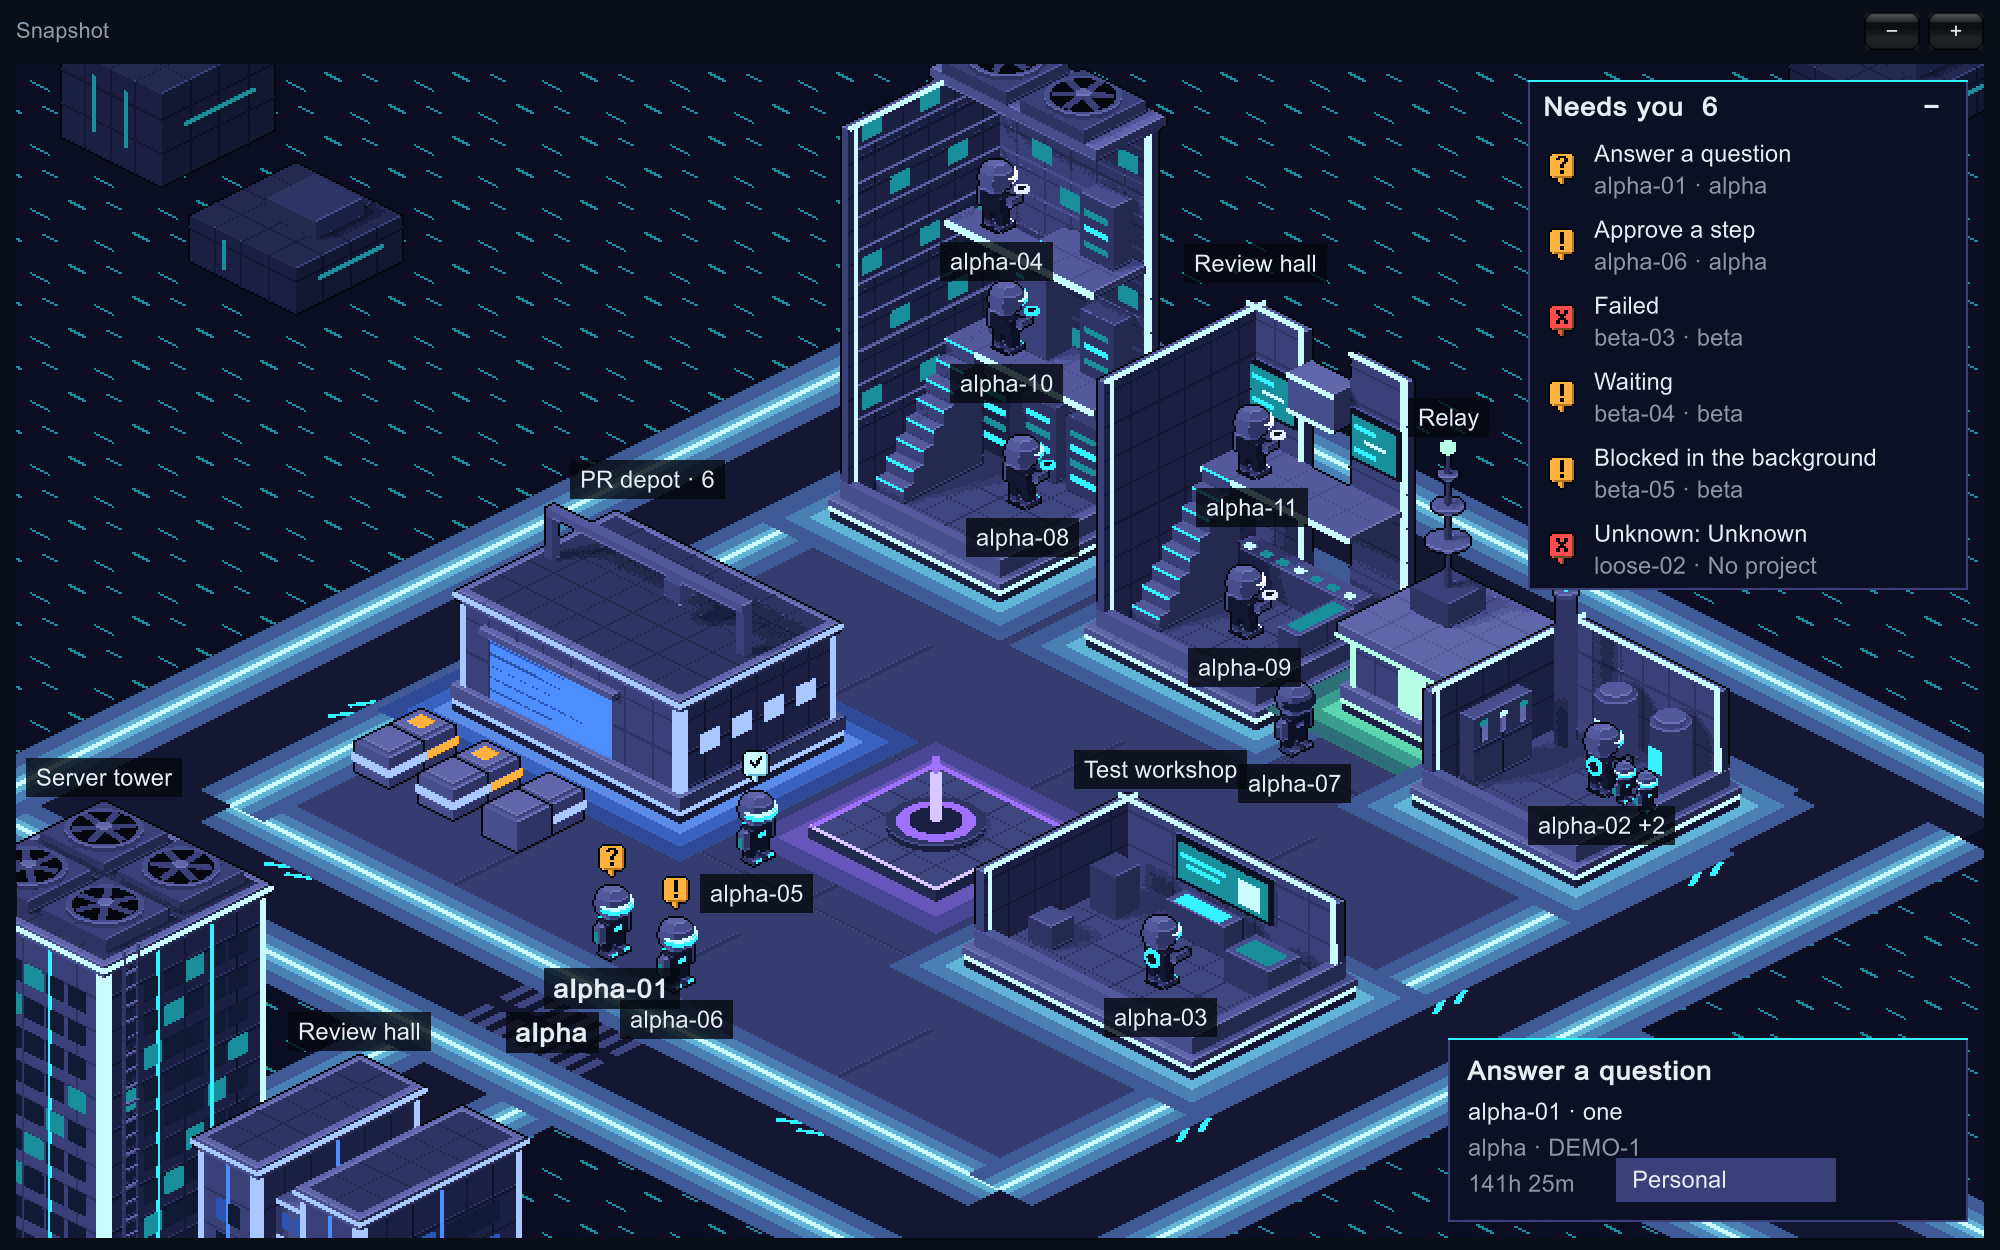
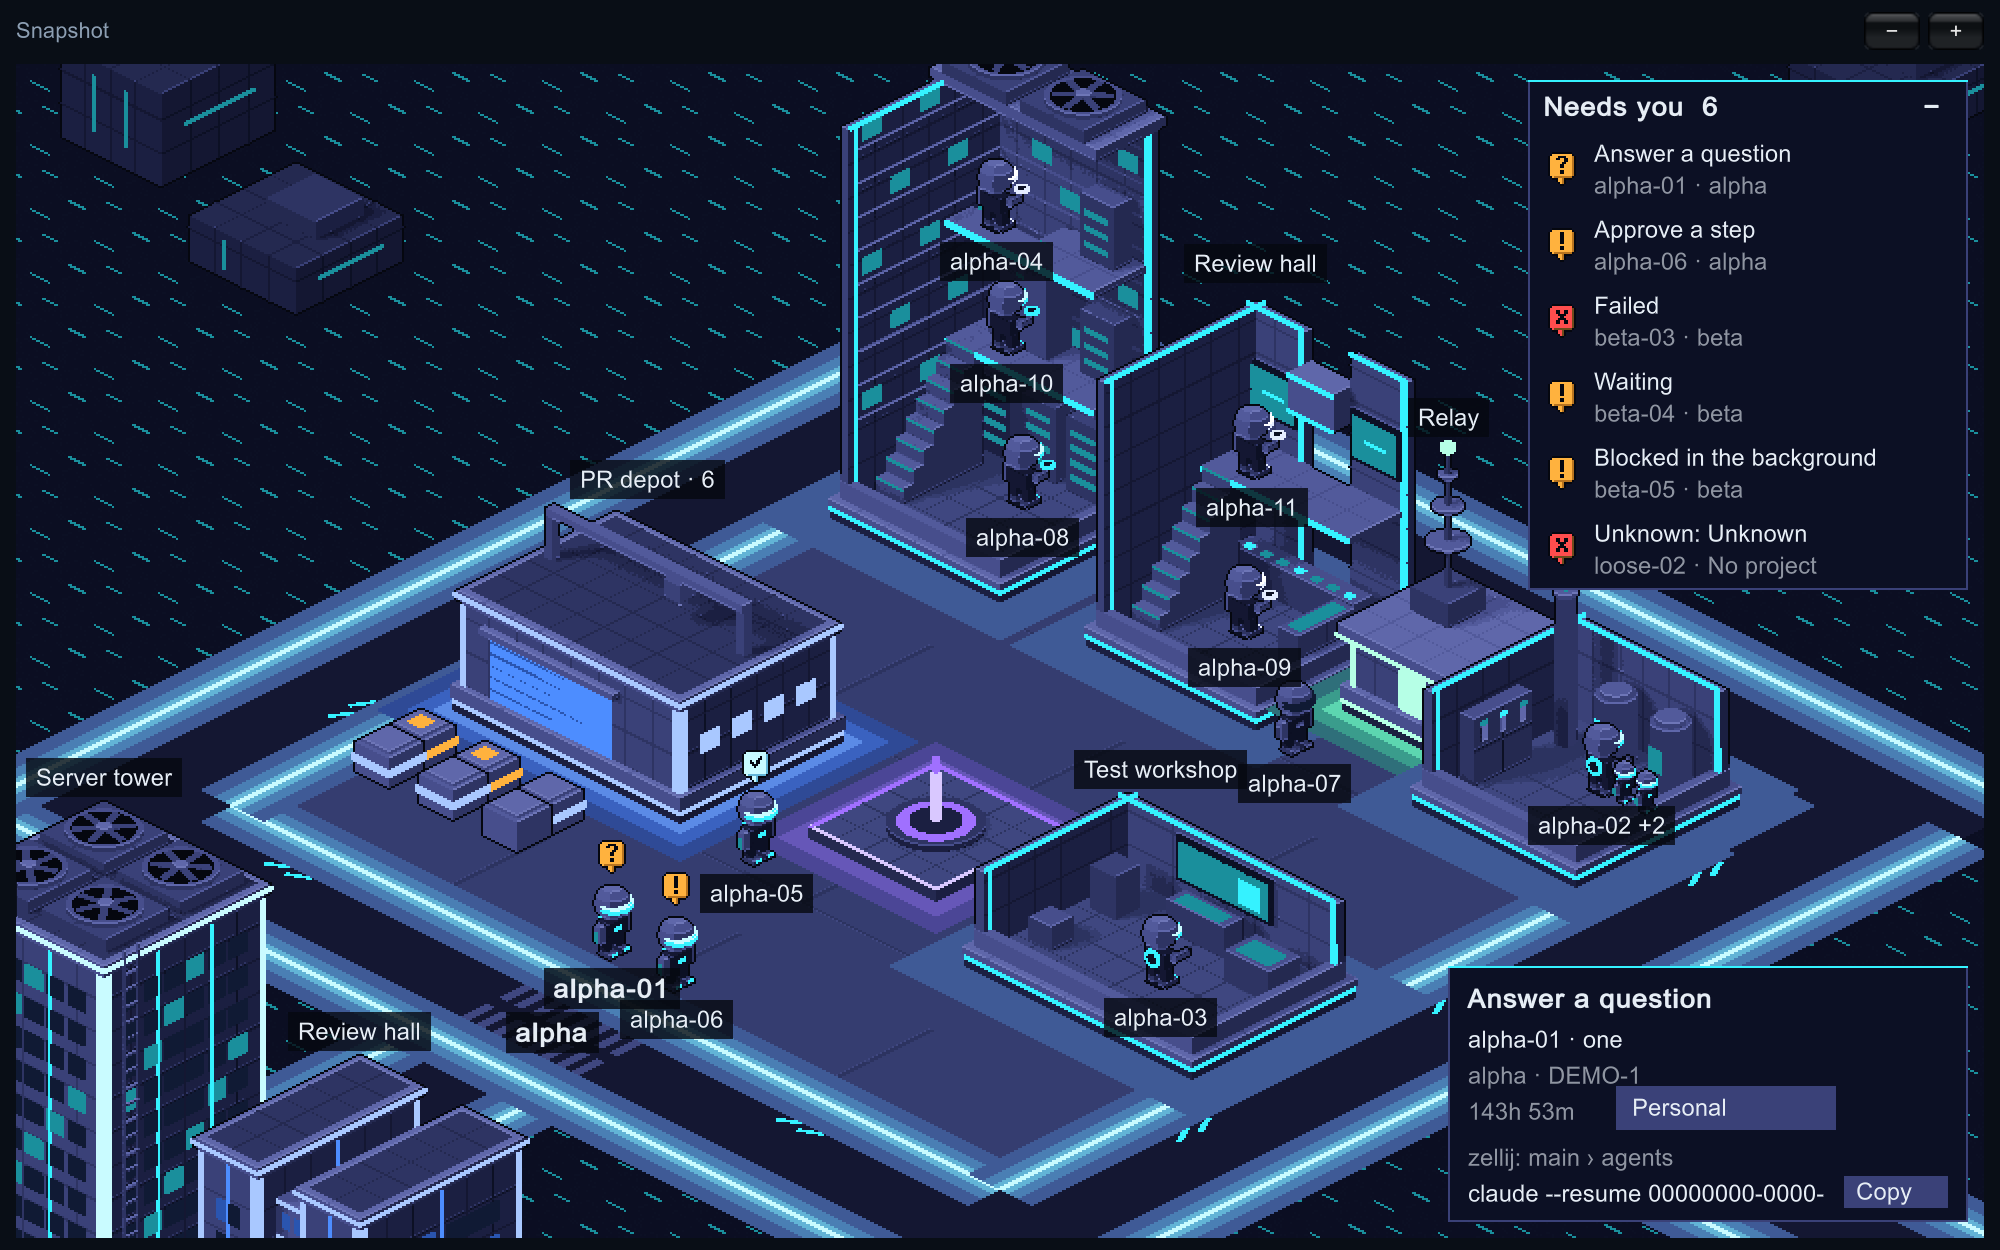
GRID-34: README and snapshot fields for the way into a conversation; pictures retaken

diff --git a/README.md b/README.md
@@ -38,6 +38,7 @@ Settings live in `~/Library/Application Support/DefaultCompany/The Grid/settings
 | `claudePath` | Path to the `claude` program. Empty means look in `~/.local/bin`, `/opt/homebrew/bin` and `/usr/local/bin` |
 | `pullRequests` | `true` to ask GitHub, through `gh`, about open pull requests; `false` and the app asks nothing of the network. Starts as `true` |
 | `ghPath` | Path to the `gh` program. Empty means look in `/opt/homebrew/bin`, `/usr/local/bin` and `/usr/bin` |
+| `zellijPath` | Path to the `zellij` program, asked which tab a session is in. Empty means look in `~/.cargo/bin`, `/opt/homebrew/bin` and `/usr/local/bin` |
 | `workspaces` | Workspace names, in the order the list shows them and regions take their lights. Starts as `Personal`; a workspace made in the app is added at the end |
 | `repoWorkspaces` | Which repo belongs to which workspace. A repo not listed is `Personal` |
 | `workspaceLights` | The light of a workspace's region in the world: `cyan`, `white`, `rose`, `mint`, `violet`, `blue` or `ember`. A workspace not listed takes its place in `workspaces`: the first is cyan, the second white, and so on |
@@ -133,7 +134,7 @@ A lane runs round every sector, and roads cross the open ground so that every se
 Two panels lie over the map, down its right side:
 
 - **Needs you** lists every bot that is waiting on you, most urgent first, with what it wants: an answer, an approval, or a look at a failure. Click a row and the view goes to that bot and selects it. Click the title to fold the list away; in a narrow window it starts folded.
-- **The card** of the selected bot says what it is doing, who it is, in which repo and on which ticket, for how long, and what each of its subagents is doing. Click its workspace to give the repo another, as in the lists. When the agent has a pull request, **PR #n** opens it.
+- **The card** of the selected bot says what it is doing, who it is, in which repo and on which ticket, for how long, and what each of its subagents is doing. Click its workspace to give the repo another, as in the lists. When the agent has a pull request, **PR #n** opens it. Under that the card says how to get into the conversation. **The command** that opens it in a terminal: `claude attach <id>` for a background session, which has no window of its own, and `claude --resume <session id>` for any other. The card shows the end of it; **Copy** puts the whole of it on the clipboard, with the `cd` to the session's folder in front and, for an account other than the default one, its `CLAUDE_CONFIG_DIR`. And, for a session that runs in a [zellij](https://zellij.dev) pane, **where it already is**: `zellij: <session> › <tab>`. Go there rather than run the command, which would open the conversation a second time. To find that, the app reads the environment of that one process when you click its bot (`ps`), keeps from it the zellij session's name and the pane's number and nothing else, and asks `zellij` for that session's panes. The app runs nothing in a terminal, and types nothing into a conversation and reads nothing from one.
 
 ![A narrow window: the list folded, the card across the bottom](docs/art/world-narrow.png)
 
@@ -157,7 +158,7 @@ To look at the world without any agent sessions, start the app on a roster snaps
 Builds/TheGrid.app/Contents/MacOS/"The Grid" -snapshot "$PWD/fixtures/world/snapshot.json"
 ```
 
-Add `-shots <folder>` and it saves `far.png` and `near.png` there and quits; `-select <account>|<session id>` selects that bot for `near.png`, and `-messages <pile snapshot file>` (try `fixtures/world/messages.json`) shows its messages arriving and saves `courier.png` and `pulse.png` too. `-pulls <file>` (try `fixtures/world/pulls.json`) puts those pull requests at the depots, since a snapshot never asks GitHub, and `-depot <sector name>` opens that depot's list in `near.png`. `-moved <world file>` lays the map again from that `world.json` after `far.png` and saves `moved.png`: a picture of a map its owner has arranged. `-workspace <sector name>` opens that sector's list of workspaces in `near.png`, and with `-give <workspace>` too the repo is given that workspace and `given.png` shows the map afterwards. `-then <snapshot file>` (try `fixtures/world/later.json`) swaps the snapshot for a later one after `near.png` and saves `stairs.png` with every bot that has somewhere new to go three fifths of its way there. With the editor closed, **The Grid > Render World Pictures** does much the same without a window, into `Logs/`, though without the names and badges:
+Add `-shots <folder>` and it saves `far.png` and `near.png` there and quits; `-select <account>|<session id>` selects that bot for `near.png`, and `-messages <pile snapshot file>` (try `fixtures/world/messages.json`) shows its messages arriving and saves `courier.png` and `pulse.png` too. `-pulls <file>` (try `fixtures/world/pulls.json`) puts those pull requests at the depots, since a snapshot never asks GitHub, and `-depot <sector name>` opens that depot's list in `near.png`. `-moved <world file>` lays the map again from that `world.json` after `far.png` and saves `moved.png`: a picture of a map its owner has arranged. `-workspace <sector name>` opens that sector's list of workspaces in `near.png`, and with `-give <workspace>` too the repo is given that workspace and `given.png` shows the map afterwards. `-where <text>` puts that on the selected bot's card as the place its session lives, since a snapshot never asks zellij. `-then <snapshot file>` (try `fixtures/world/later.json`) swaps the snapshot for a later one after `near.png` and saves `stairs.png` with every bot that has somewhere new to go three fifths of its way there. With the editor closed, **The Grid > Render World Pictures** does much the same without a window, into `Logs/`, though without the names and badges:
 
 ```bash
 /Applications/Unity/Hub/Editor/6000.4.3f1/Unity.app/Contents/MacOS/Unity -batchmode -projectPath "$PWD" -executeMethod TheGrid.EditorTools.GridMenu.WorldPictures -quit

diff --git a/docs/roster-snapshot.md b/docs/roster-snapshot.md
@@ -31,6 +31,8 @@ The exact JSON is pinned by a test against [`fixtures/roster/snapshot.json`](../
 | `workspace` | Workspace the repo is assigned to; `Personal` when unassigned | Settings |
 | `stateSince` | When the agent entered `state`, in milliseconds since 1970 UTC | Per-process session file, else the first time the roster saw that state |
 | `subagents` | Helpers the agent started that are still working | Files beside the transcript |
+| `enter` | The command that opens the conversation in a terminal: `cd <folder> && claude attach <id>` for a background session, `cd <folder> && claude --resume <session id>` for any other, with `CLAUDE_CONFIG_DIR=<folder>` before `claude` for an account other than the default. Empty when there is nothing to open it by | Live session list |
+| `pid` | The session's process; `0` for a background session, which has none. The world asks this process where the session lives (its zellij session and tab) when its card is opened; that answer is not in the snapshot | Live session list |
 
 A subagent has `agentId`, `description` (what it was asked to do) and `agentType`.
 
